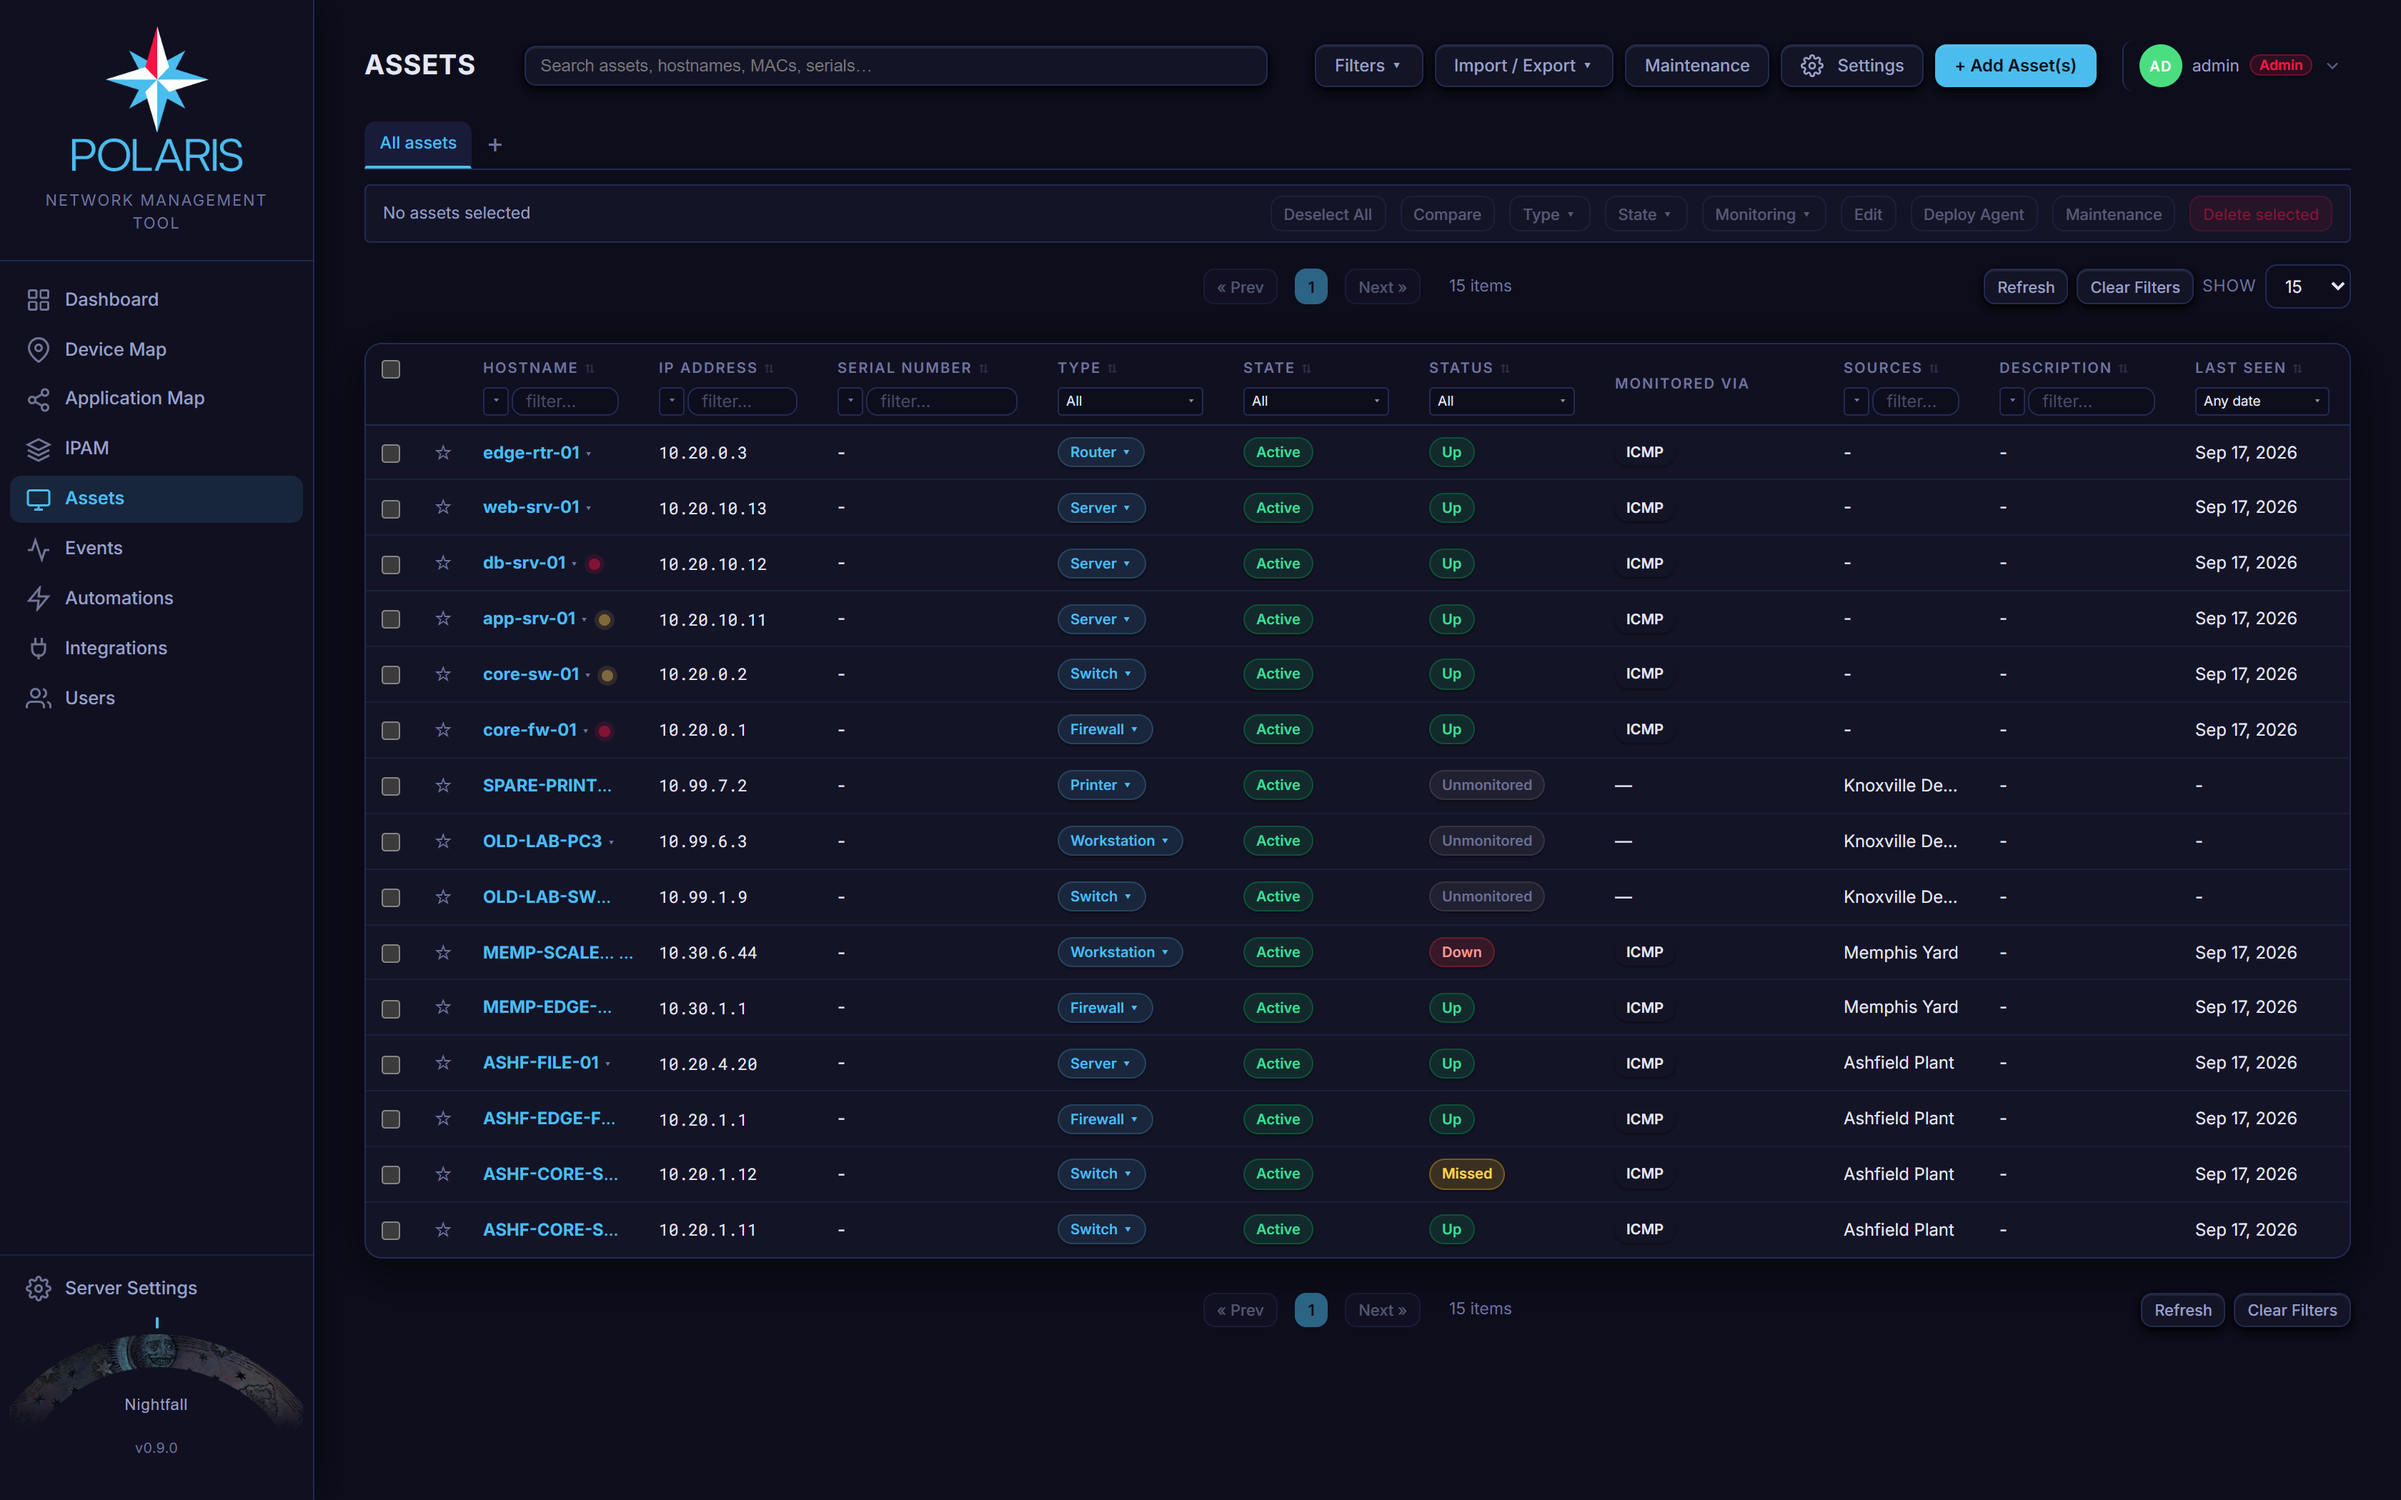
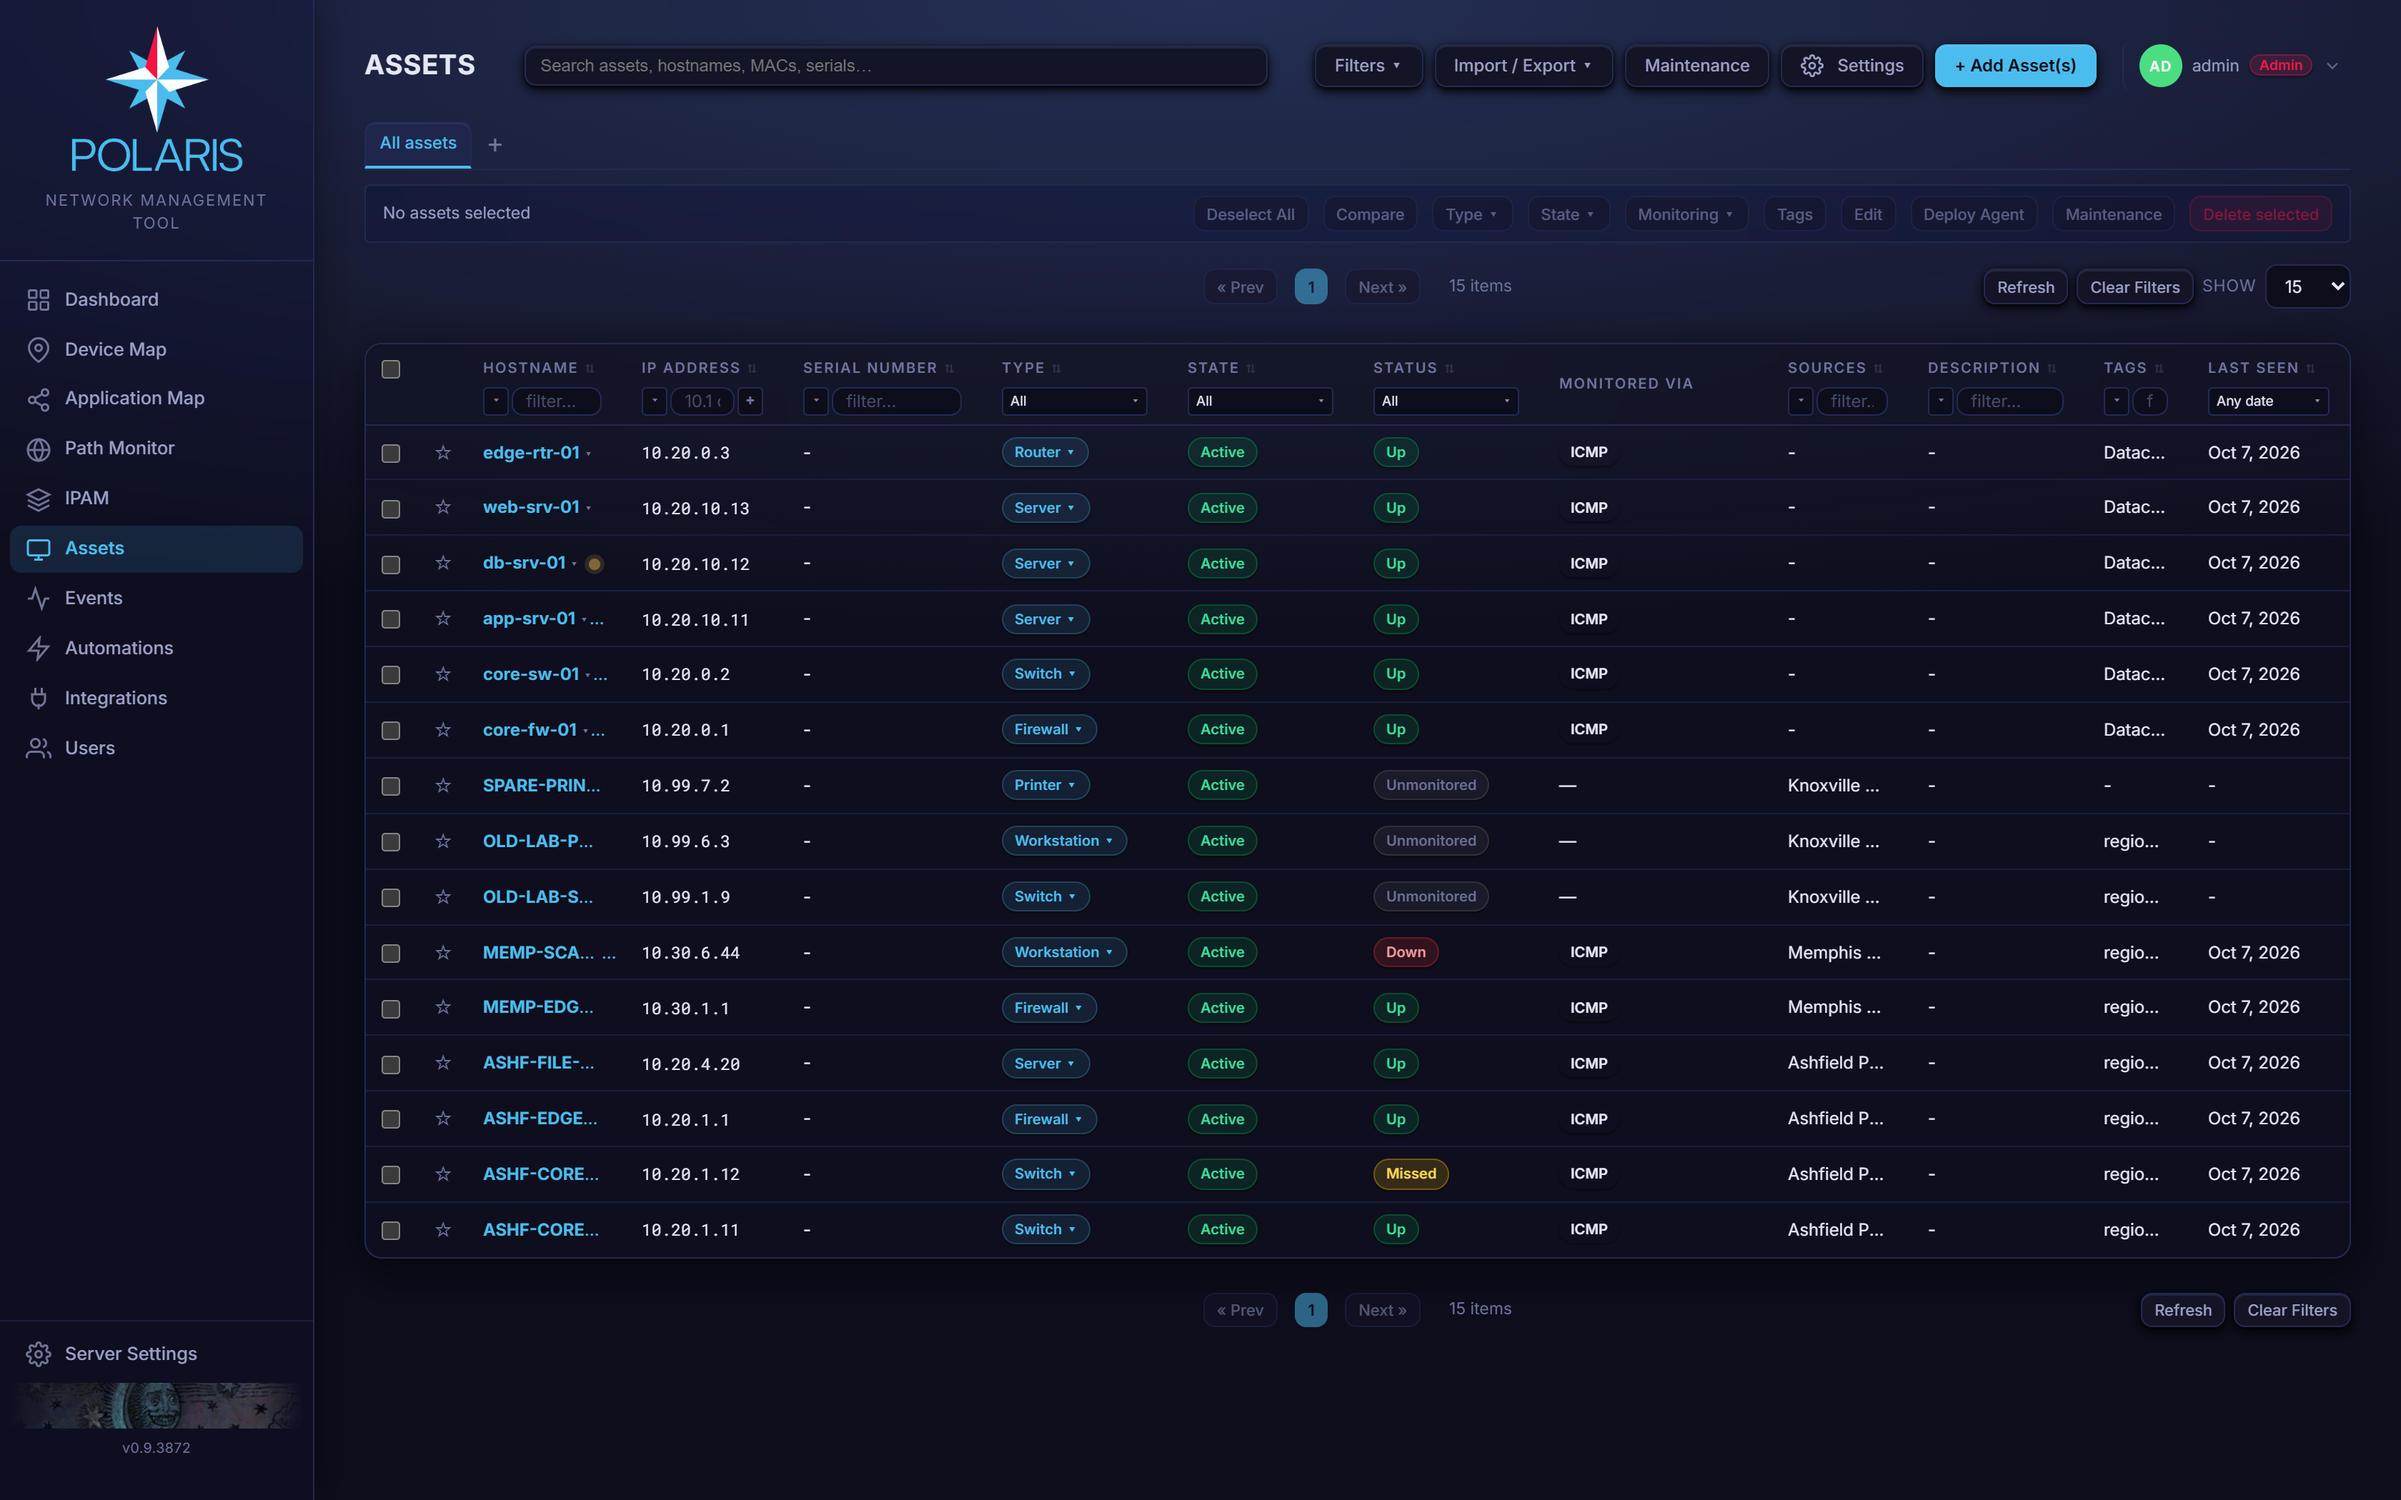
docs: recapture the README and wiki screenshots
The 2026-09-17 images predated the theme glow, sticky headers, the new
mobile tab bar (Search / Alerts / Assets / Networks / More), the dashboard
editing model and several Assets and Automations columns. All twelve are
recaptured from a freshly seeded dev stack (noon + nightfall, desktop +
mobile); the mobile pair now shows the Alerts tab instead of an empty
Search screen.

README captions follow: the mobile tab list, the Assets columns, and the
Automations line no longer quotes a shipped-rule count (it varies with the
install). Every device, address and alert is invented by the prisma seeds.

The set is 11.6 MB against 5.5 MB before: the gradient backgrounds compress
worse than the old flat ones.

diff --git a/README.md b/README.md
@@ -22,7 +22,7 @@ One record per device, with the source that reported each field, its monitoring 
 
 <picture>
   <source media="(prefers-color-scheme: dark)" srcset="docs/img/screenshots/desktop-nightfall-assets.png">
-  <img alt="The Assets table: hostname, IP, serial, type, state, monitor status and monitoring transport, with a per-column filter row and a bulk-action bar." src="docs/img/screenshots/desktop-noon-assets.png">
+  <img alt="The Assets table: hostname, IP, serial, type, state, monitor status, monitoring transport, sources, tags and last seen, with a per-column filter row and a bulk-action bar." src="docs/img/screenshots/desktop-noon-assets.png">
 </picture>
 
 ### Address registry
@@ -36,7 +36,7 @@ Blocks are the namespaces; networks are the subnets carved out of them, with uti
 
 ### Automations
 
-What fires, on which devices, at what severity, and what it does — 29 of them ship enabled.
+What fires, on which devices, at what severity, and what it does — a baseline set ships enabled, delivering in-app until you add recipients.
 
 <picture>
   <source media="(prefers-color-scheme: dark)" srcset="docs/img/screenshots/desktop-nightfall-automations.png">
@@ -54,11 +54,11 @@ The audit trail — every create, update, delete and discovery event.
 
 ### Mobile
 
-An installable PWA for the phone — search, device map, assets and reservations.
+An installable PWA for the phone — search, live alerts with acknowledge and clear, assets and networks.
 
 <picture>
   <source media="(prefers-color-scheme: dark)" srcset="docs/img/screenshots/mobile-nightfall-mobile.png">
-  <img alt="The Polaris mobile web app: a scoped search screen with a bottom tab bar for Search, Device Map, Assets, Reservations and More." src="docs/img/screenshots/mobile-noon-mobile.png" width="320">
+  <img alt="The Polaris mobile web app's Alerts tab: severity count tiles, filter and sort controls, and an alert list with Ack and Clear buttons, above a bottom tab bar for Search, Alerts, Assets, Networks and More." src="docs/img/screenshots/mobile-noon-mobile.png" width="320">
 </picture>
 
 </details>
